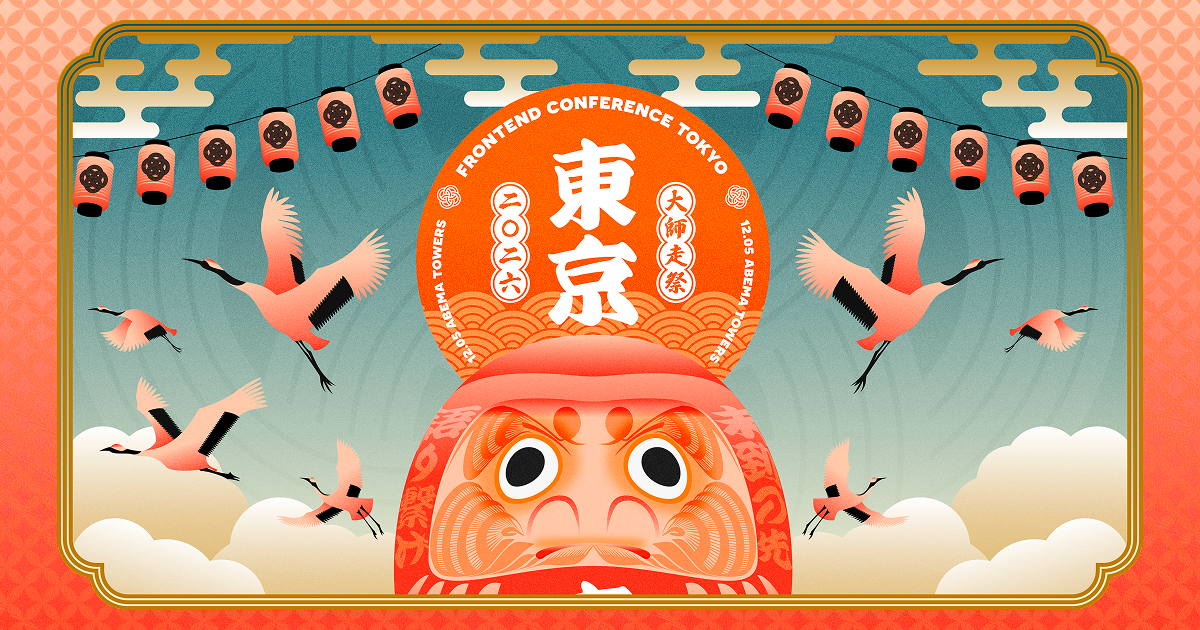
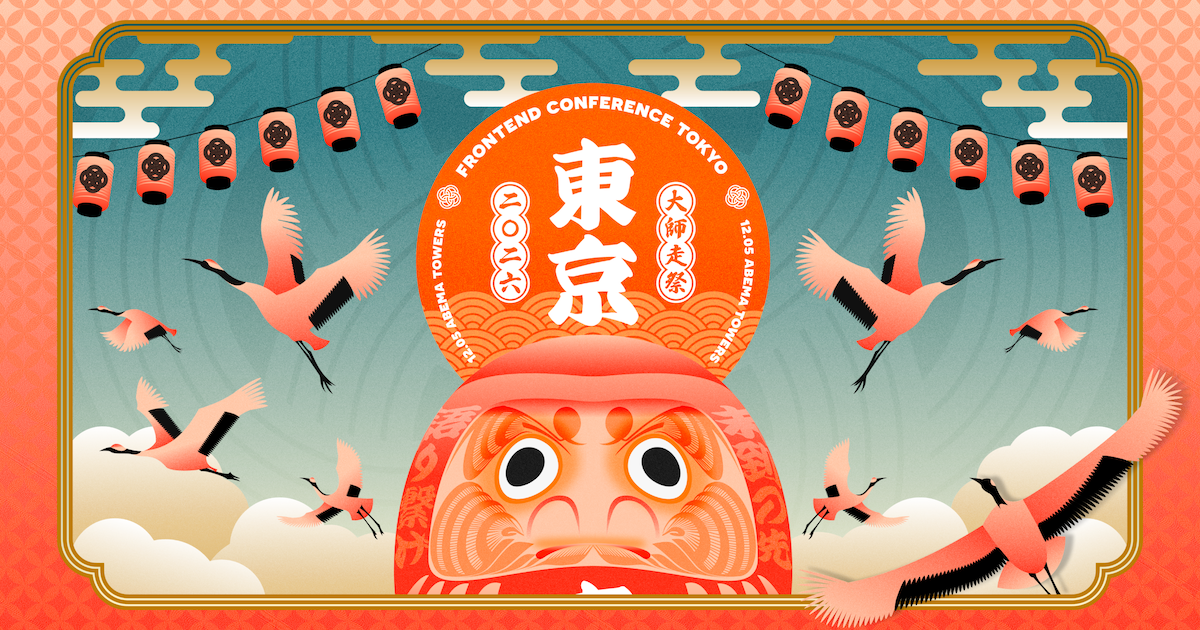
chore: 細かいところの修正

diff --git a/src/data/2026/guestSpeakers.ts b/src/data/2026/guestSpeakers.ts
@@ -67,7 +67,7 @@ export const GUEST_SESSIONS: GuestSession[] = [
     ],
     speakers: [
       {
-        name: "keita yamada",
+        name: "Keita Yamada",
         company: "Freelance Web Designer / Developer",
         image: KeitaYamadaImage,
         profile: "フリーランスで活動しているWebサイト制作者です。",
